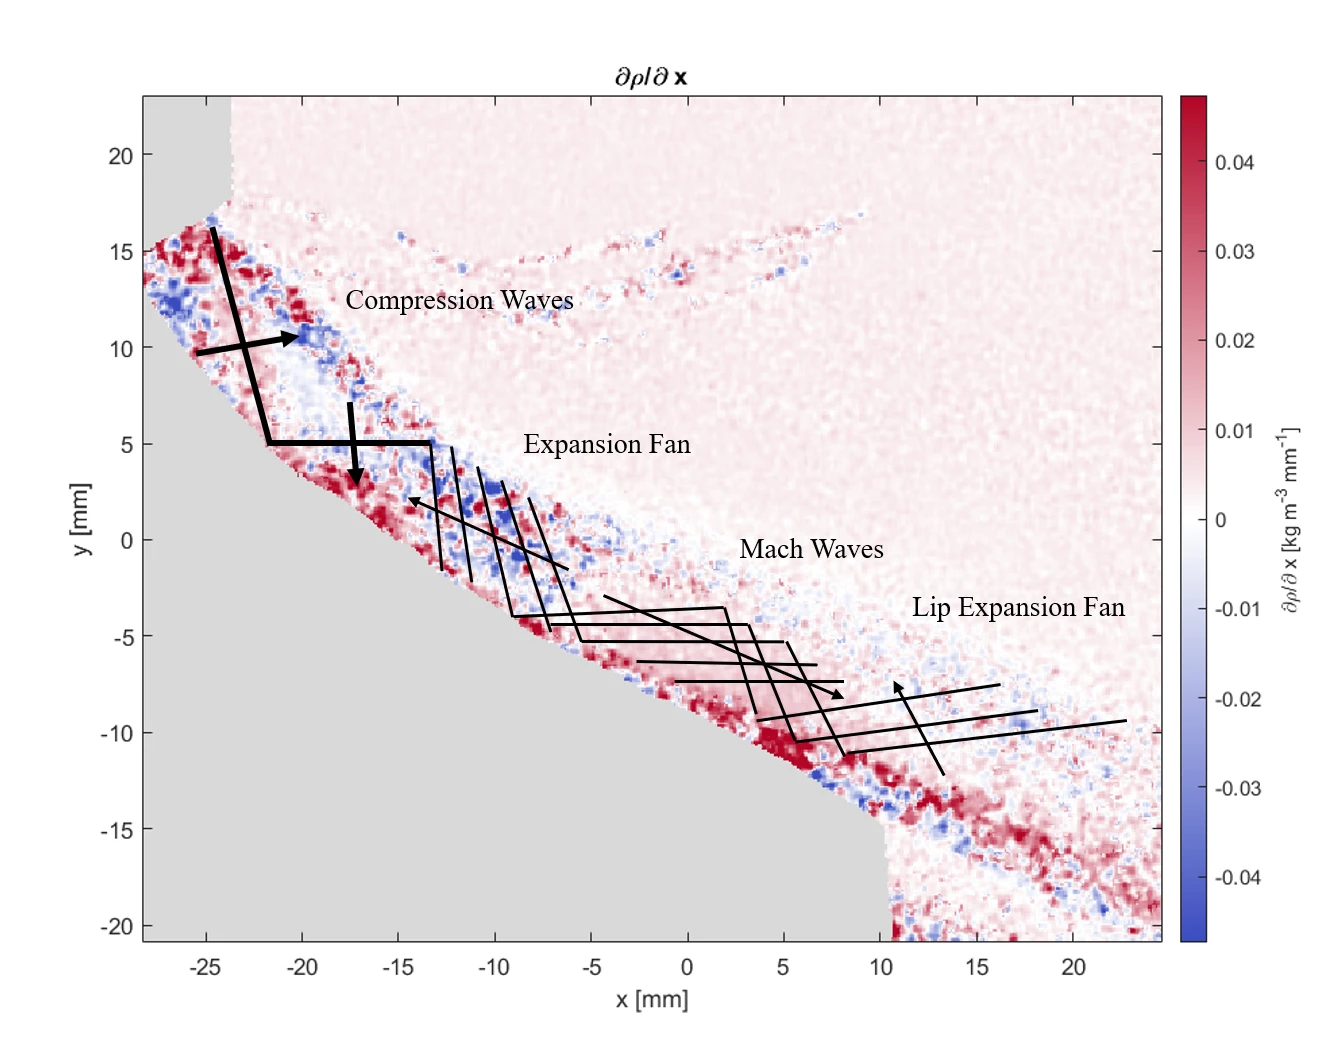
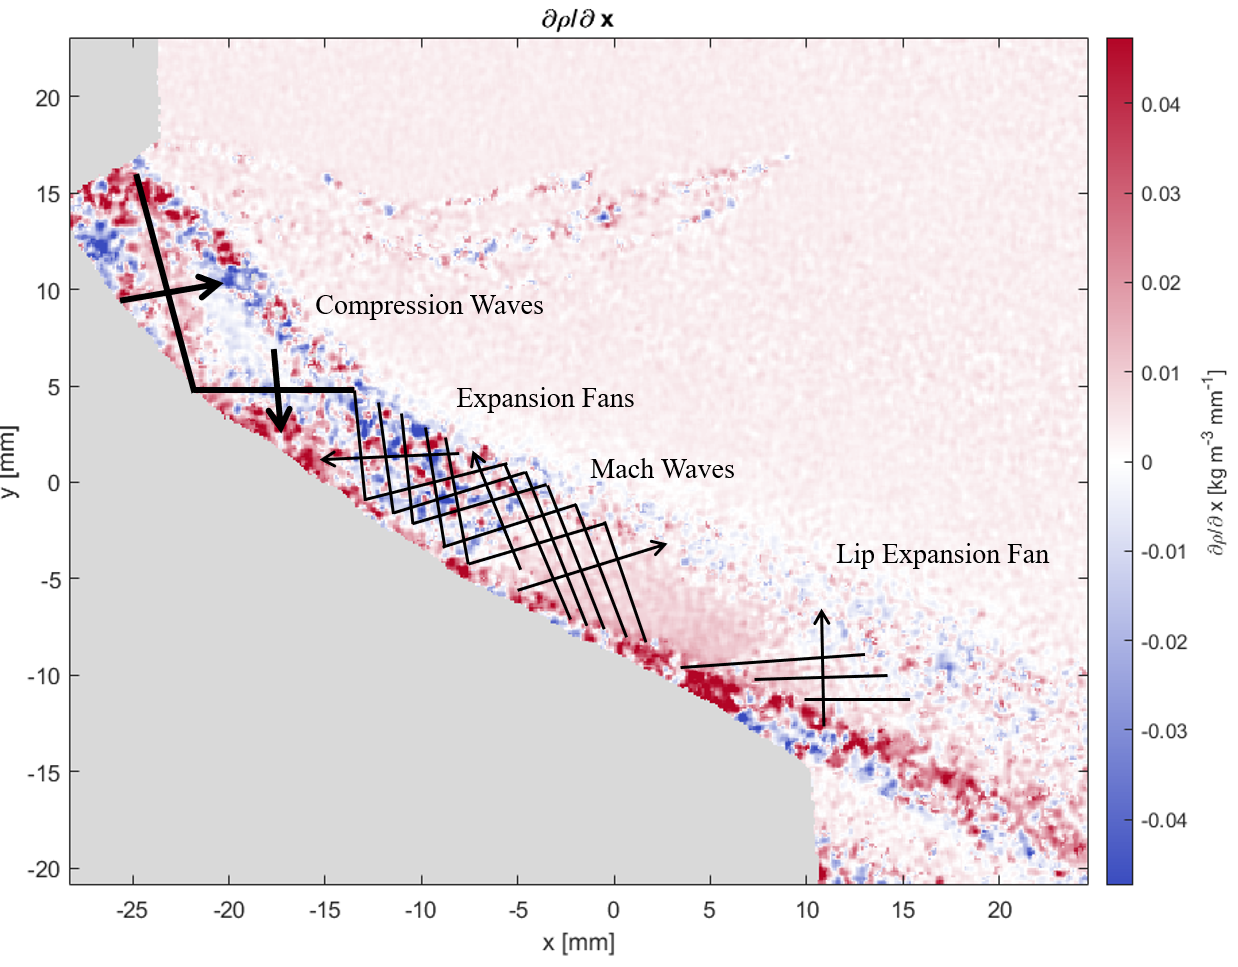
Updates from Overleaf

diff --git a/mainmatter/06_results.tex b/mainmatter/06_results.tex
@@ -677,14 +677,14 @@ The first 3 points only imaged the nozzle exhaust without a freestream supersoni
     \label{fig: aerospike displacement points 1-3}
 \end{figure}
 
-Figure \ref{fig: aerospike flow pictures} displays the flow pictures taken for points 1 on the left, 3 on the right. The SBOS flow pictures are notably blurred, with almost no distinct speckle inside the flow. This blur probably caused decorrelation, which showed up in the results as noise. The blurring cannot be only attributed to a defocus distance and seems to come from the flow itself. This is hinted by the schlieren image in Figure \ref{} that shows a very darkened and turbulent flow. This predominance of dark regions means that the light was bent severely and is being blocked by the horizontal filter, indicating a large density gradient in those regions. The turbulence also adds density gradients transverse to the imaging plane, which can interfere with the cross-correlation and planar interpretation of the results. This analysis shows a limitation of the defocus configuration but also an interesting feature of SBOS. It indicates that the defocused method might fail in flows with very strong density gradients, however, the technique allows focusing inside the test section, dynamically changing the sensitivity and resolution so that the blur can be reduced and the flow studied successfully.
+Figure \ref{fig: aerospike flow pictures} displays the flow pictures taken for points 1 on the left, 3 on the right. The SBOS flow pictures are notably blurred, with almost no distinct speckle inside the flow. This blur probably caused decorrelation, which showed up in the results as noise. The blurring cannot be only attributed to a defocus distance and seems to come from the flow itself. This is hinted by the schlieren image in Figure \ref{fig: aerospike schlieren interpretation} that shows a very darkened and turbulent flow. This predominance of dark regions means that the light was bent severely and is being blocked by the horizontal filter, indicating a large density gradient in those regions. The turbulence also adds density gradients transverse to the imaging plane, which can interfere with the cross-correlation and planar interpretation of the results. This analysis shows a limitation of the defocus configuration but also an interesting feature of SBOS. It indicates that the defocused method might fail in flows with very strong density gradients, however, the technique allows focusing inside the test section, dynamically changing the sensitivity and resolution so that the blur can be reduced and the flow studied successfully.
 
 \begin{figure}[htbp]
     \centering
     \begin{subfigure}[b]{0.477\textwidth}
         \centering
         \includegraphics[width=\textwidth]{figures/SBOS1_FLOW.jpg}
-        \caption{SBOS, point 1}
+        \caption{SBOS flow picture, point 1}
         \label{fig: aerospike flow picture point 1}
     \end{subfigure}
     % \hfill
@@ -698,7 +698,7 @@ Figure \ref{fig: aerospike flow pictures} displays the flow pictures taken for p
     \begin{subfigure}[b]{0.47\textwidth}
         \centering
         \includegraphics[width=\textwidth]{figures/aerospike flow picture point 3.jpg}
-        \caption{SBOS, point 3}
+        \caption{SBOS flow picture, point 3}
         \label{fig: aerospike flow picture point 3}
     \end{subfigure}
     \caption{Flow pictures of the aerospike nozzle exhaust at $NPR = 8$ without freestream flow. (a) SBOS picture of point 1, with negative defocus. (b) SBOS picture of point 3, with positive defocus}
@@ -730,7 +730,7 @@ The maximum measured displacement of points 1,2 and 3 were taken from the Cross-
     \end{tabular}
 \end{table}
 
-Now that the sensitivity of point 2 is known, the density gradient field can be obtained by assuming a 2D planar flow and applying Equation \ref{equation: In-plane displacement}. In this case, an effective lever arm was calculated by dividing the Sensitivity of Table \ref{tab: S ratio} with point 2's optical magnification, $l_{eff} = S/M_{ag} = 126,29$ mm. Figure \ref{fig: aerospike density gradient fields} shows the x component of the gradient on \ref{fig: aerospike density gradient x} and the y component on \ref{fig: aerospike density gradient y}. The information of the two pictures allowed for the identification of compression and expansion waves in the flow, which were marked in Figure \ref{fig: aerospike flow interpretation}. A very clear red line next to the exhaust in the x component marks a compression wave that reflects into another wave of the same family marked by a blue line in the y component. The compression wave hits the shear layer and becomes an expansion fan, signaled by the blue region in the x component. The following faintly red region indicates that the expansion waves reflect into very weak compression waves, until it reaches another expansion fan at the truncation lip, marked by a red region in the y component. This interpretation demonstrates the capability of SBOS to produce images with enough resolution to qualitatively interpret the flow structure at hand.
+Now that the sensitivity of point 2 is known, the density gradient field can be obtained by assuming a 2D planar flow and applying Equation \ref{equation: In-plane displacement}. In this case, an effective lever arm was calculated by dividing the Sensitivity of Table \ref{tab: S ratio} with point 2's optical magnification, $l_{eff} = S/M_{ag} = 126,29$ mm. Figure \ref{fig: aerospike density gradient fields} shows the x component of the gradient on \ref{fig: aerospike density gradient x} and the y component on \ref{fig: aerospike density gradient y}. The information of the two pictures allowed the identification of compression and expansion waves in the flow, which were marked in Figure \ref{fig: aerospike flow interpretation}. A very clear red line next to the exhaust in the x component signals a compression wave that reflects into another wave of the same family marked by a blue line in the y component. The compression wave hits the shear layer and becomes an expansion fan, hinted by the blue region in the x component. A pocket of red in the y component on the right of the blue hints that the expansion fan reflects into waves of the same family when it hit the ramp. Next, a faintly red region emerges both in the y and x components, indicating that the expansion waves reflect at the shear layer into very weak compression waves, until they reach another expansion fan at the truncation lip, marked by a red homogeneous region in the y component. This interpretation demonstrates the capability of SBOS to produce images with enough resolution to qualitatively interpret the flow structure at hand.
 
 \begin{figure}[htbp]
     \centering
@@ -751,28 +751,28 @@ Now that the sensitivity of point 2 is known, the density gradient field can be 
     \label{fig: aerospike density gradient fields}
 \end{figure}
 
-Comparing the Schlieren image of the same flow conditions in Figure \ref{fig: aerospike schlieren interpretation} with the interpretation displayed in Figure \ref{fig: aerospike flow interpretation} allows to validate the qualitative assessment of the flow structures, namely its type and position. The schlieren image displays a much more clear and sharp image than the SBOS density field, meaning that  it is superior in sensitivity and resolution. Nevertheless, the identification of the flow features made based on Figures \ref{} and \ref{} do not stray significantly from what can be seen through traditional schlieren. Furthermore, the SBOS displacement field can much more easily be used for a quantitative analysis than the intensity distribution of the classic method.
+Comparing the Schlieren image of the same flow conditions in Figure \ref{fig: aerospike schlieren interpretation} with the interpretation displayed in Figure \ref{fig: aerospike flow interpretation} allows to validate the qualitative assessment of the flow structures, namely its type and position. The schlieren image displays a much more clear and sharp image than the SBOS density field, meaning that  it is superior in sensitivity and resolution. Nevertheless, the identification of the flow features based on Figures \ref{fig: aerospike density gradient x} and \ref{fig: aerospike density gradient y} do not stray significantly from what can be seen through traditional schlieren. Furthermore, the SBOS displacement field can much more easily be used for a quantitative analysis than the intensity distribution of the classic method.
 
 \begin{figure}[htbp]
     \centering
-    \begin{subfigure}[b]{0.406\textwidth}
+    \begin{subfigure}[b]{0.5\textwidth}
         \centering
         \includegraphics[width=\textwidth]{figures/aerospike flow interpretation.png}
         \caption{Interpretation of the SBOS result}
         \label{fig: aerospike flow interpretation}
     \end{subfigure}
     \hfill
-    \begin{subfigure}[b]{0.554\textwidth}
+    \begin{subfigure}[b]{0.49\textwidth}
         \centering
         \includegraphics[width=\textwidth]{figures/aerospike schlieren NPR8.png}
         \caption{Schlieren image}
         \label{fig: aerospike schlieren interpretation}
     \end{subfigure}
-    \caption{Flow structures of the aerospike nozzle exhaust at $NPR = 8$ without freestream flow. (a) Compression waves, expansion fans and Mach waves identified on the $x$ component of the density gradient. (b) Schlieren image of the same flow condition}
+    \caption{Flow structures of the aerospike nozzle exhaust at $NPR = 8$ without freestream flow. (a) Compression waves, expansion fans and Mach waves are identified as black lines on the $x$ component of the density gradient, the arrows identify the general direction of the density gradient. (b) Schlieren image of the same flow condition}
     \label{fig: aerospike flow interpretation and schlieren}
 \end{figure}
 
-A verification of the density gradient field computation can also be done by comparing the fields obtained for points 1 and 3. Since point 1, 2 and 3 measure the same flow condition at 3 distinct independent moments, the comparison between their results allows to assess the right scaling from raw displacement to density gradients. An ideal comparison would be between samples of values in the same region at each individual picture. However, as it has been shown before, it is not possible to distinguish any features from the results of points 1 and 3, so that comparison would be nonphysical. Nevertheless, the scaling can be assessed by comparing the peaks of each density gradient field. The maximum density gradients were collected in Table \ref{tab: aerospike gradient peaks} together with the average of the 100 highest values. The data shows that, all the maximum of the gradient components and the n peak averages match remarkably well, mantaining themselves below 10\%.
+A verification of the density gradient field computation can also be done by comparing the fields obtained for points 1 and 3. Since point 1, 2 and 3 measure the same flow condition at 3 distinct independent moments, the comparison between their results allows to assess the right scaling from raw displacement to density gradients. An ideal comparison would be between samples of values in the same region at each individual picture. However, as it has been shown before, it is not possible to distinguish any features from the results of points 1 and 3, so that comparison would be nonphysical. Nevertheless, the scaling can be assessed by comparing the peaks of each density gradient field. The maximum density gradients were collected in Table \ref{tab: aerospike gradient peaks} together with the average of the 100 highest values. The data shows that, all the maximum of the gradient components and the n peak averages match remarkably well, maintaining themselves below 10\%.
 
 \begin{table}[htbp]
     \centering
@@ -792,3 +792,12 @@ A verification of the density gradient field computation can also be done by com
         \bottomrule
     \end{tabular}
 \end{table}
+
+Points 4 to 11 of Table \ref{tab: aerospike experimental results} imaged the aerospike nozzle influenced by an external Mach 2 flow created by the high-speed wind tunnel. Figure \ref{} compares the results taken with $NPR = 10$ from points 5 and 9 to an schlieren image taken with the same flow condition. The three photos are representative of the resolution and sensitivity of each configuration for the other $NPR$s. In this case, the flow captured with positive defocus experienced a considerably smaller blurring and the cross-correlation results already allowed the identification of some structures. Nevertheless, It is the results obtained with the focus inside the test section that truly yield remarkable resolution, capable of rivaling even the schlieren image.
+
+%Add displacement magnitude of points 5, 9 and the schlieren correspondent.
+
+Using S ratio method, the sensitivity and effective lever arm of points 8-11 can be obtained with the maximum measured displacement of points 4-7. 
+
+
+%Add S ratio table 2
